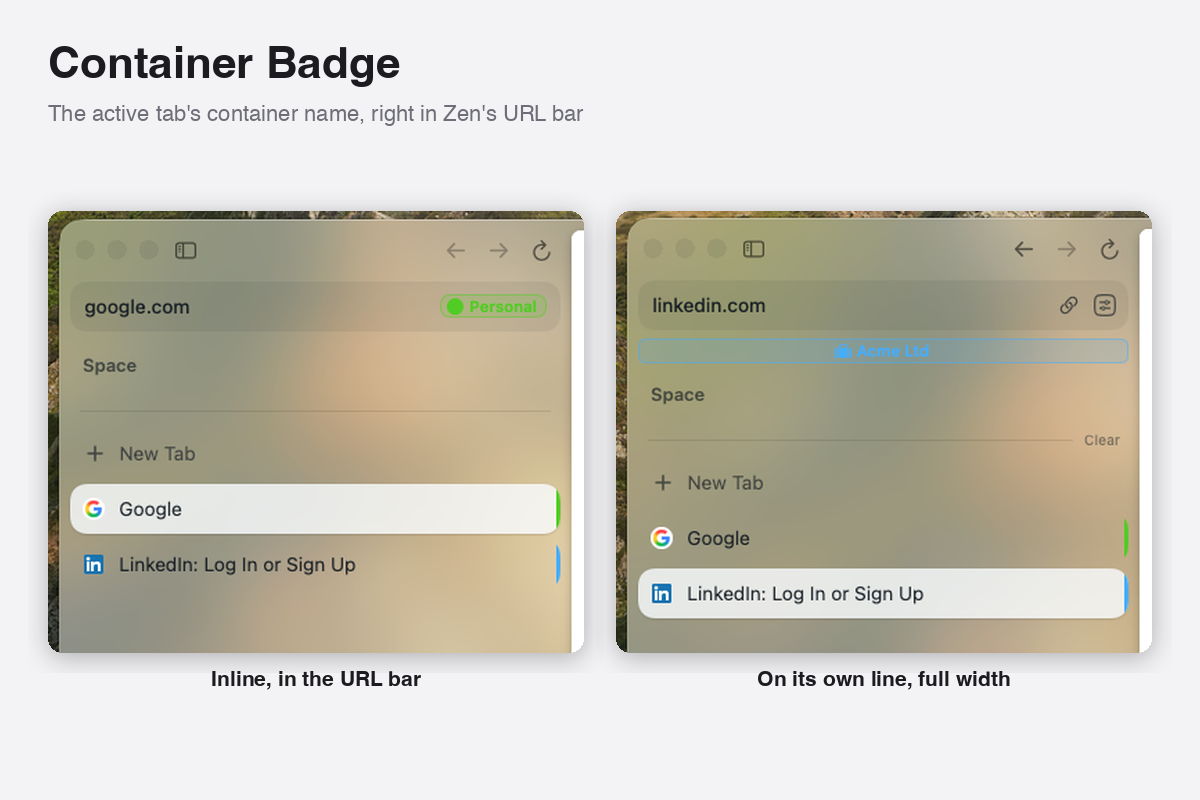
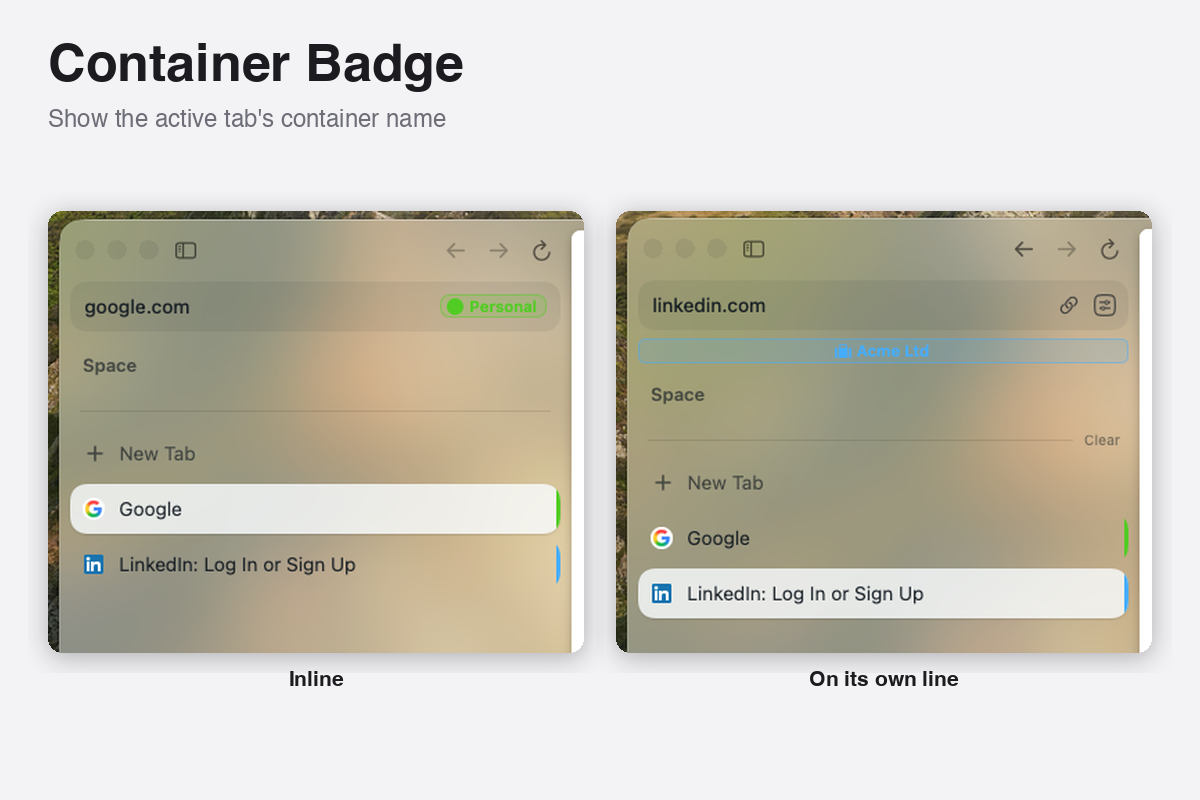
Preview image: shorter labels and subtitle, larger title

Changed region(s): [[0.0308, 0.0312, 0.4933, 0.1562], [0.6167, 0.8438, 0.8633, 0.875], [0.185, 0.8438, 0.37, 0.875]]

diff --git a/scripts/compose-preview.py b/scripts/compose-preview.py
@@ -11,7 +11,7 @@ from PIL import Image, ImageDraw, ImageFilter, ImageFont
 
 W, H, MARGIN, GAP, RADIUS = 1200, 800, 48, 32, 14
 BG, FG, MUTED = (243, 243, 246), (28, 28, 32), (110, 110, 120)
-TITLE, SUBTITLE = "Container Badge", "The active tab's container name, right in Zen's URL bar"
+TITLE, SUBTITLE = "Container Badge", "Show the active tab's container name"
 
 
 def font(size, bold=False):
@@ -34,8 +34,8 @@ def rounded(img, r):
 def main(out, pairs):
     canvas = Image.new("RGB", (W, H), BG)
     d = ImageDraw.Draw(canvas)
-    d.text((MARGIN, 44), TITLE, font=font(44, bold=True), fill=FG)
-    d.text((MARGIN, 104), SUBTITLE, font=font(22), fill=MUTED)
+    d.text((MARGIN, 40), TITLE, font=font(52, bold=True), fill=FG)
+    d.text((MARGIN, 108), SUBTITLE, font=font(24), fill=MUTED)
 
     n = len(pairs)
     col_w = (W - 2 * MARGIN - GAP * (n - 1)) // n
